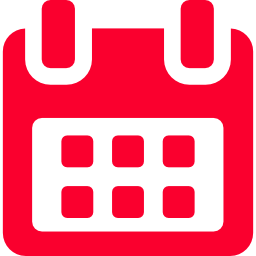
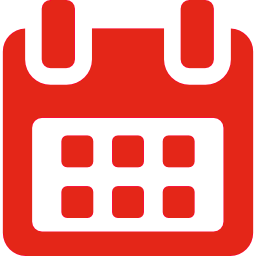
Signed-off-by: AntonainV <antonin.vianey@live.com>

diff --git a/IHM/CSS/commonM.css b/IHM/CSS/commonM.css
@@ -177,10 +177,10 @@ button.followable.unfollow{
   width: 100%;
   border-radius: 5px;
 
-  border: 2px solid #fa002e;
+  border: 2px solid rgb(228,38,24);
 
   color: white;
-  background: #fa002e;
+  background:rgb(228,38,24);
 
   letter-spacing: 0px;
   text-shadow: 0;
@@ -340,4 +340,6 @@ input {
 .addEvent
 {
   left: 20px;
+  font-family: sans-serif;
+  display: none;
 }
